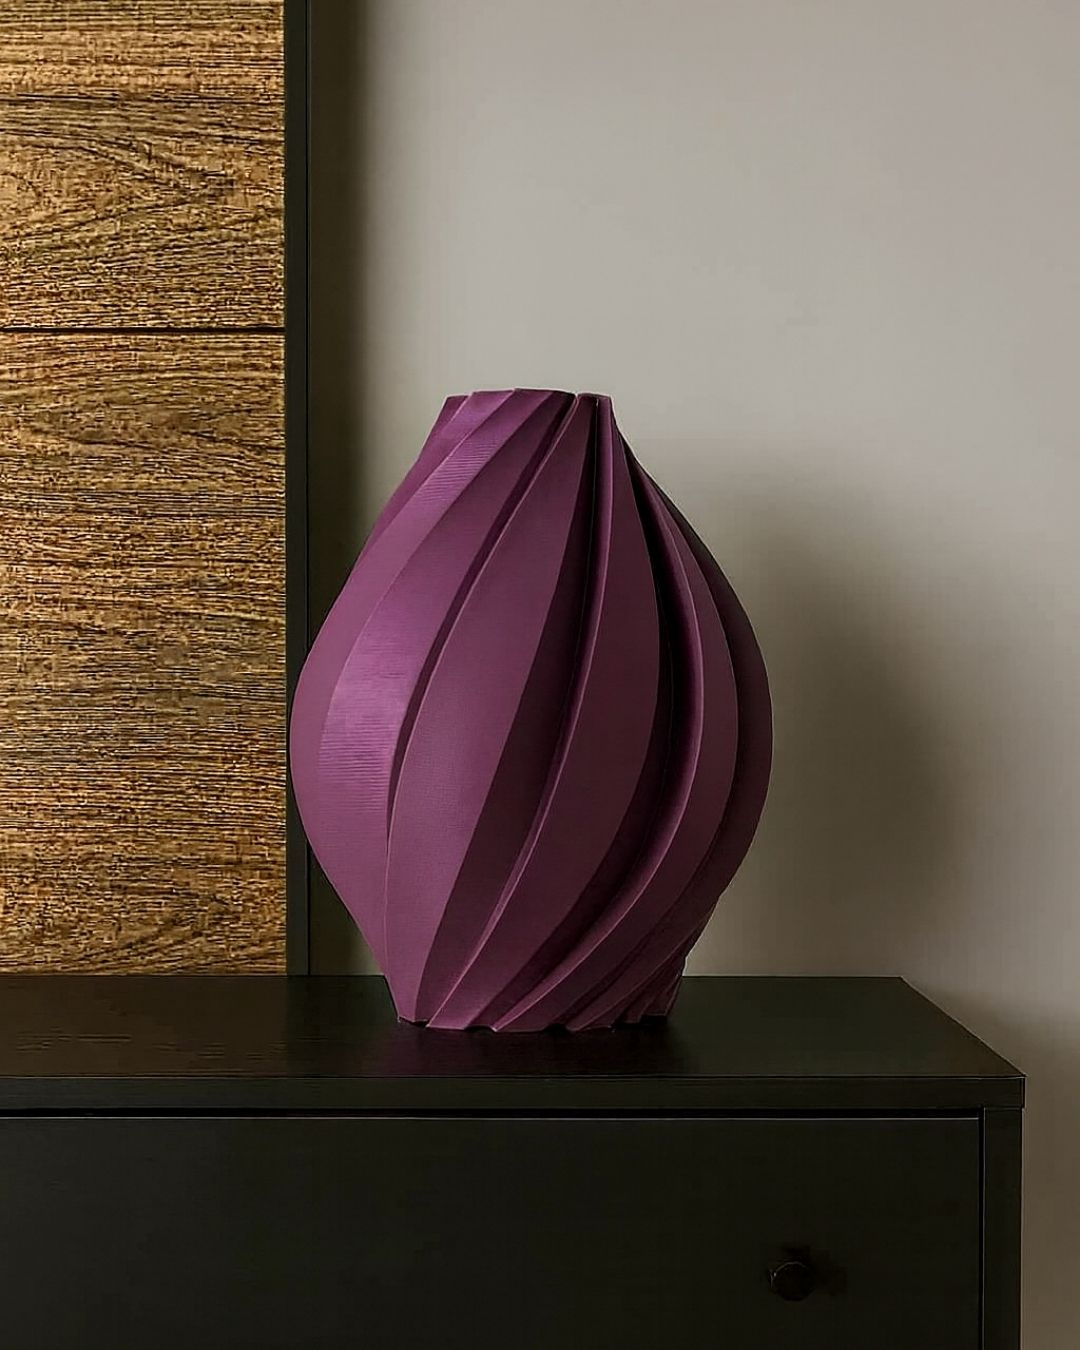
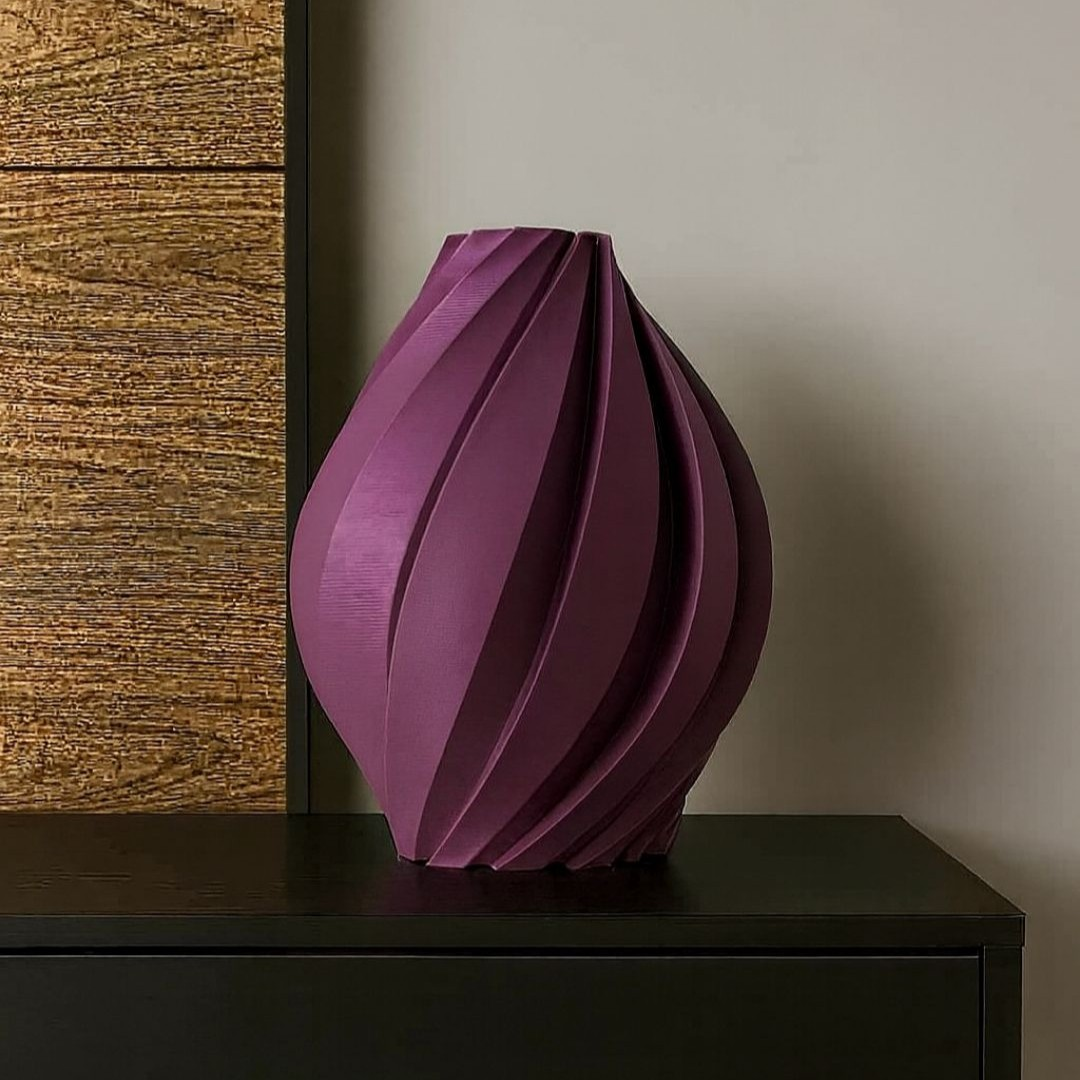
Due scatti veri in galleria, e il Red Wine ora e' quadrato
- Red Wine sostituito con la versione quadrata: ora tutte le foto della
  galleria hanno la stessa proporzione e il riquadro non 'salta' piu'
  passando da una all'altra.
- Due scatti veri: il vaso portato a mano sulla passerella, e il vaso a
  terra accanto a una persona. Quest'ultimo e' l'unico che dice davvero
  quanto e' grande - 37 cm si leggono, ma non si vedono - percio' i due
  scatti veri stanno prima dei render d'ambiente.
- Erano 4000x4000 px, 3 MB e 1,4 MB l'uno: da telefono, con la rete di
  casa altrui, sono secondi di attesa. Ridotti a 1400 px (165 e 329 KB),
  gli originali spostati in images/_originali/Blade, fuori dal pubblicato.
- Nomi rinominati anche qui: 'Shapeless 1-24.jpg' con lo spazio nel nome
  non e' un indirizzo web.

Claude-Session: https://claude.ai/code/session_0123TiaAaxzRPzEoKQLVDdXR

diff --git a/prova-blade-unificata.html b/prova-blade-unificata.html
@@ -557,10 +557,14 @@
      mostrata per prima quando quel colore e' selezionato (gia' previsto).
      ========================================================================= */
   var FOTO = [
-    { src:'images/blade-transparent.png',          alt:'Blade — vista frontale' },
-    { src:'images/Blade/blade-ambiente-sage.jpg',  alt:'Blade Sage su una credenza in legno' },
-    { src:'images/Blade/blade-ambiente-offwhite.jpg', alt:'Blade Off White su un tavolino da salotto' },
-    { src:'images/Blade/blade-ambiente-redwine.jpg',  alt:'Blade Red Wine su un mobile scuro' }
+    { src:'images/blade-transparent.png',                 alt:'Blade — vista frontale' },
+    /* Gli scatti veri vengono prima dei render d'ambiente: il secondo, col vaso
+       accanto a una persona, e' l'unico che dice davvero quanto e' grande. */
+    { src:'images/Blade/blade-ambiente-passeggiata.jpg',  alt:'Blade Off White portato a mano su una passerella di legno' },
+    { src:'images/Blade/blade-ambiente-scala-reale.jpg',  alt:'Blade Red Wine appoggiato a terra accanto a una persona: la misura reale' },
+    { src:'images/Blade/blade-ambiente-sage.jpg',         alt:'Blade Sage su una credenza in legno' },
+    { src:'images/Blade/blade-ambiente-offwhite.jpg',     alt:'Blade Off White su un tavolino da salotto' },
+    { src:'images/Blade/blade-ambiente-redwine.jpg',      alt:'Blade Red Wine su un mobile scuro' }
   ];
   </script>
 
